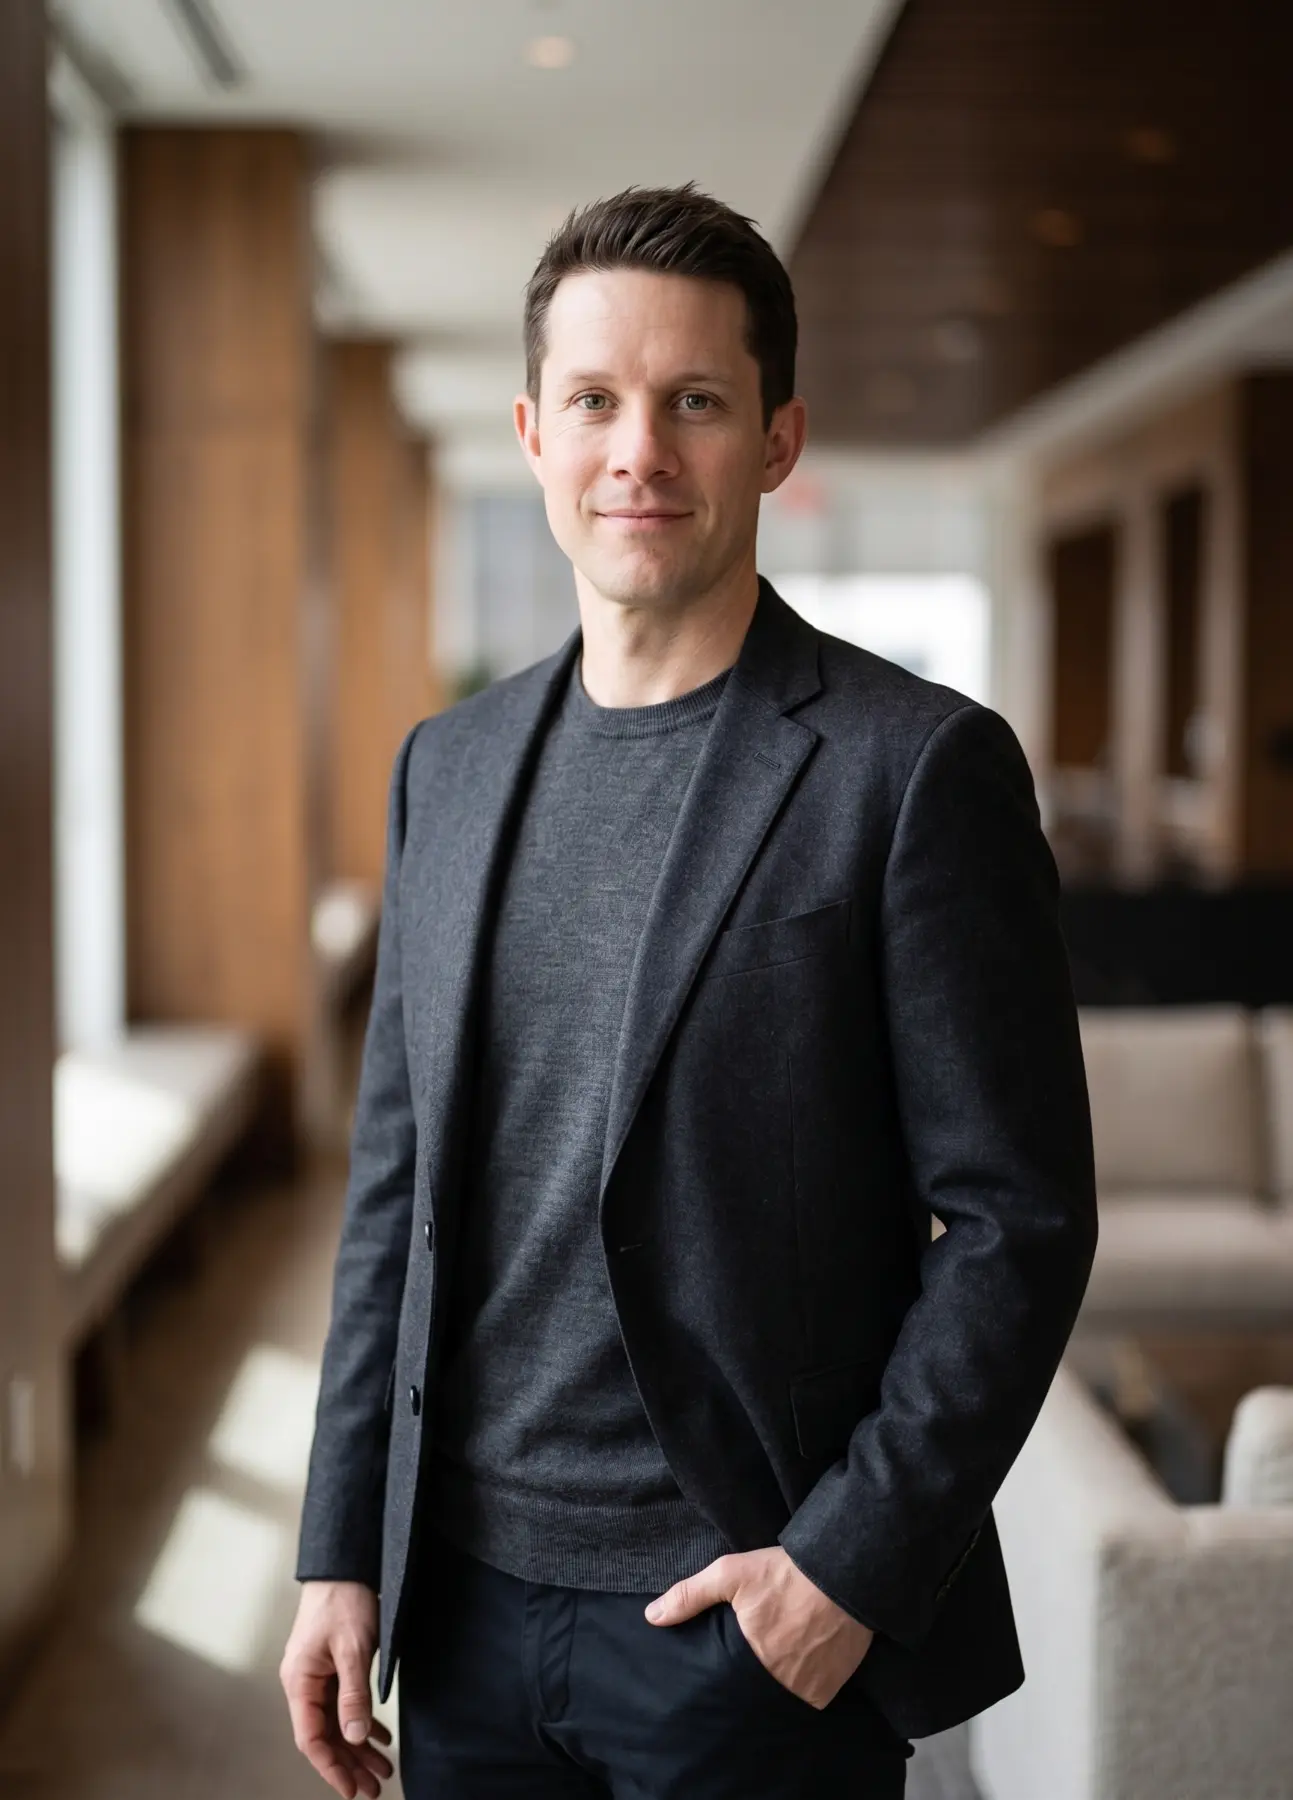
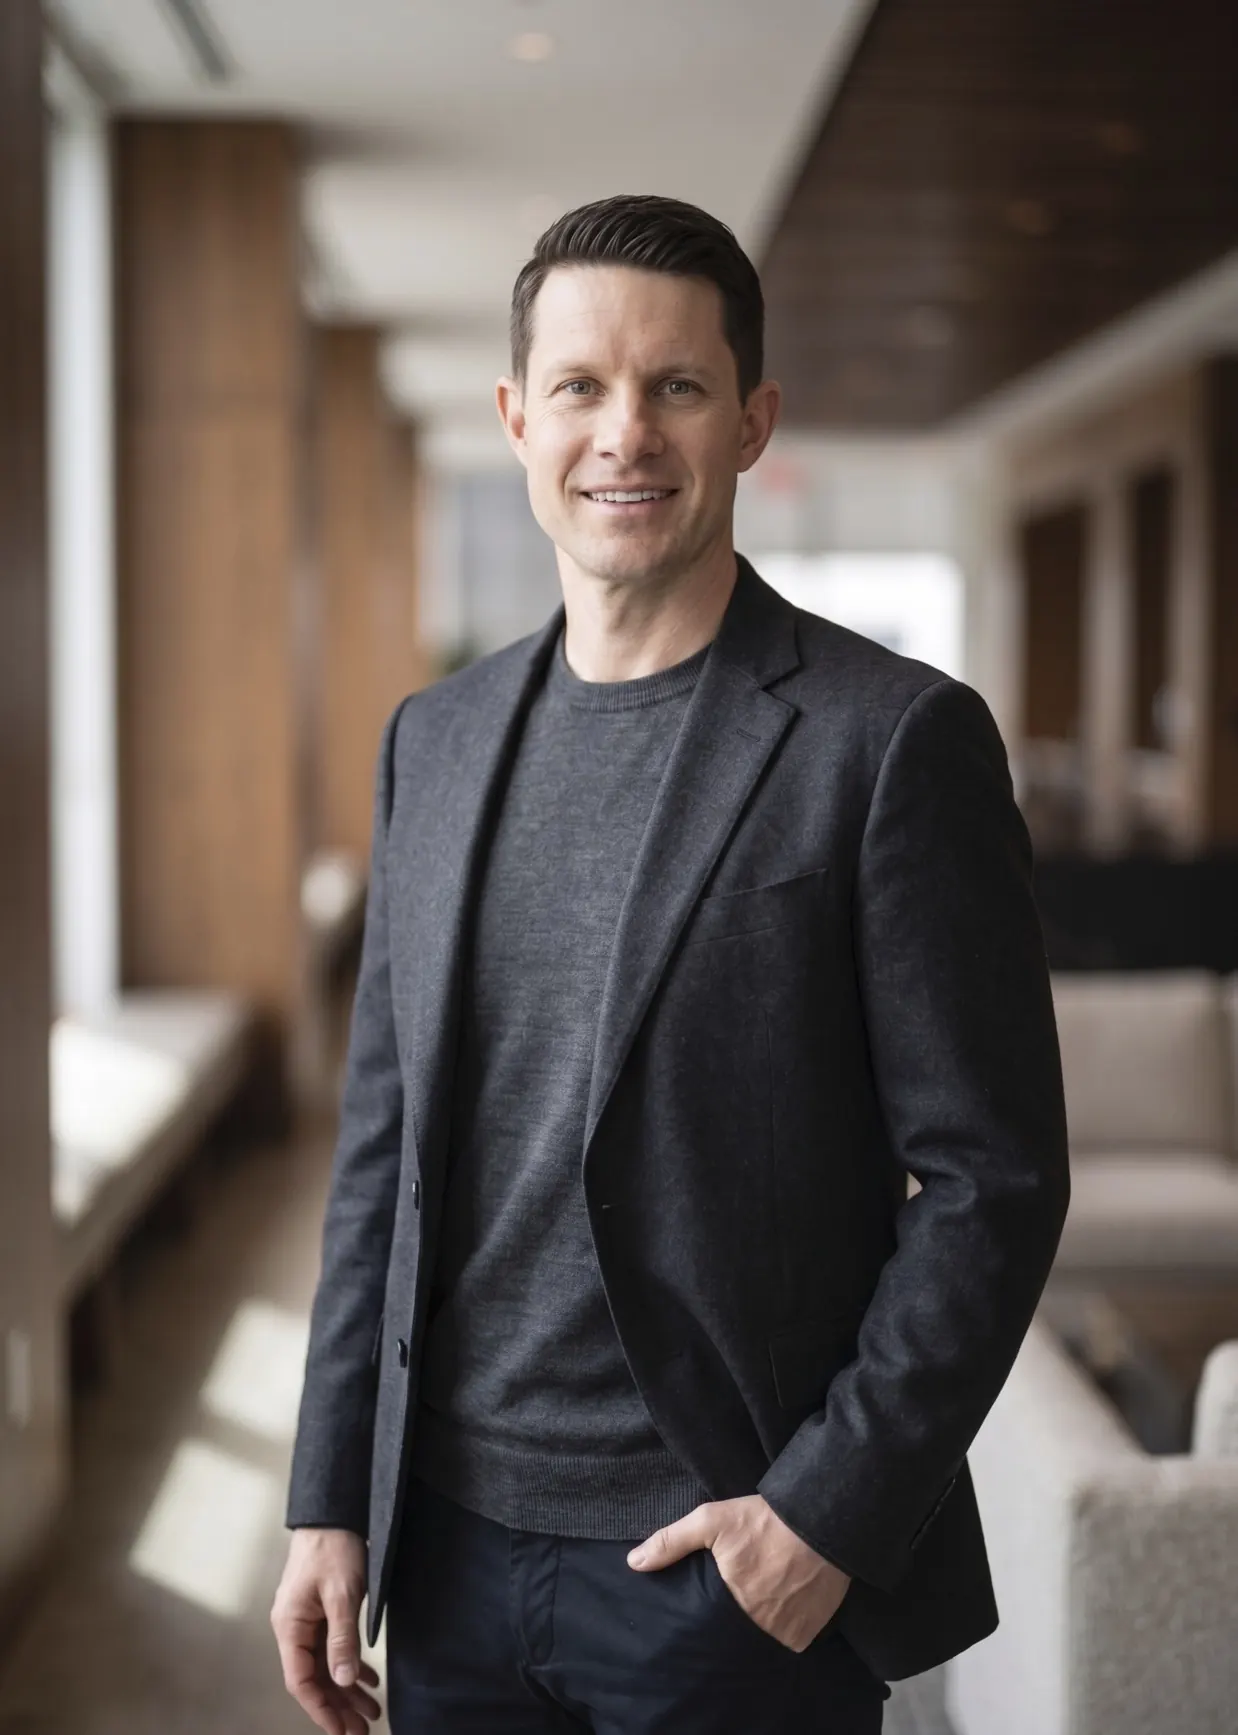
Media updates

diff --git a/src/consts.ts b/src/consts.ts
@@ -3,11 +3,11 @@ export const SITE_NAME = "Jason Wallace";
 export const LINKEDIN_URL = "https://www.linkedin.com/in/itsjasonwallace";
 
 export const SITE_TITLE =
-  "Jason Wallace — Engineering Leader & Solution Architect";
+  "Jason Wallace | Engineering Leader & Solution Architect";
 
 // Long-form lede, used in the hero.
 export const SITE_DESCRIPTION =
-  "20+ years of full-lifecycle engineering. Twelve leading the people who do it. Today, leading Wealth & Asset Management Engineering at Charles Schwab — and still chasing hard problems.";
+  "20+ years of full-lifecycle engineering. Twelve leading the people who do it. Today, leading Wealth & Asset Management Engineering at Charles Schwab, and still chasing hard problems.";
 
 // Short form for <meta name="description"> and og:description, which truncate
 // around 155 characters in search results and social previews.
